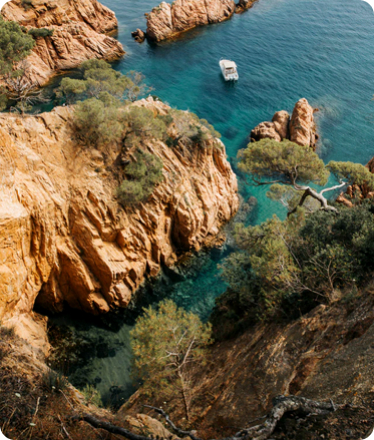
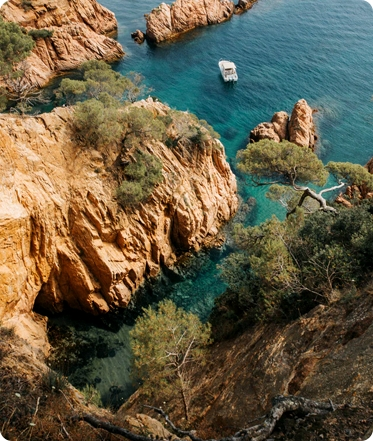
Minor edits
*Изменил картинку на более качественную
*Добавил решетки для href
*Корректировки в классе .offer-link

diff --git a/03_Lagoona/index.html b/03_Lagoona/index.html
@@ -13,7 +13,7 @@
       <div class="container">
         <div class="header-block-top flex">
           <div class="header-box flex">
-            <a href="" class="header-logo">
+            <a href="#" class="header-logo">
               <img src="./img/logo.jpg" alt="logo Lagoona" class="header-logo-image">
             </a>
             <address class="header-address">
@@ -22,7 +22,7 @@
               </a>
             </address>
           </div>
-          <a href="" class="header-login">
+          <a href="#" class="header-login">
             Личный кабинет
           </a>
         </div>
@@ -89,7 +89,7 @@
                   <div class="offer-price offer-price-xs">
                     от&nbsp;55&nbsp;000&nbsp;₽
                   </div>
-                  <a href="" class="offer-link">
+                  <a href="#" class="offer-link">
                     Подробнее
                   </a>
                 </article>
@@ -100,7 +100,7 @@
                   <div class="offer-price offer-price-xs">
                     от&nbsp;30&nbsp;000&nbsp;₽
                   </div>
-                  <a href="" class="offer-link">
+                  <a href="#" class="offer-link">
                     Подробнее
                   </a>
                 </article>
@@ -113,7 +113,7 @@
                   <div class="offer-price offer-price-xl">
                     от&nbsp;5&nbsp;000&nbsp;₽
                   </div>
-                  <a href="" class="offer-link">
+                  <a href="#" class="offer-link">
                     Подробнее
                   </a>
                 </article>
@@ -140,7 +140,7 @@
           <ul class="list-reset services-list flex">
             <li class="services-item services-img1">
               <h3 class="services-title">
-                <a href="" class="services-link">
+                <a href="#" class="services-link">
                   Эксклюзивное обслуживание
                 </a>
               </h3>
@@ -150,7 +150,7 @@
             </li>
             <li class="services-item services-img2">
               <h3 class="services-title">
-                <a href="" class="services-link">
+                <a href="#" class="services-link">
                   Аренда банкетных залов
                 </a>
               </h3>
@@ -160,7 +160,7 @@
             </li>
             <li class="services-item services-img3">
               <h3 class="services-title">
-                <a href="" class="services-link">
+                <a href="#" class="services-link">
                   Сауны, бассейны, бани, фитнес-залы
                 </a>
               </h3>
@@ -170,7 +170,7 @@
             </li>
             <li class="services-item services-img4">
               <h3 class="services-title">
-                <a href="" class="services-link">
+                <a href="#" class="services-link">
                   Охраняемые автомобильные стоянки
                 </a>
               </h3>
@@ -525,7 +525,7 @@
               </article>
             </li>
             <li class="accommodation-item flex accommodation-item-last">
-                <a href="" class="accommodation-link">
+                <a href="#" class="accommodation-link">
                   Посмотреть все варианты
                 </a>
             </li>

diff --git a/03_Lagoona/CSS/style.css b/03_Lagoona/CSS/style.css
@@ -269,8 +269,7 @@ body {
   color: #F0BF5F;
   background-image: url("../img/rectangle-icon.svg");
   background-repeat: no-repeat;
-  background-position: right bottom;
-  background-size: 11px 16px;
+  background-position: right bottom -1px;
 }
 
 /* about us */
